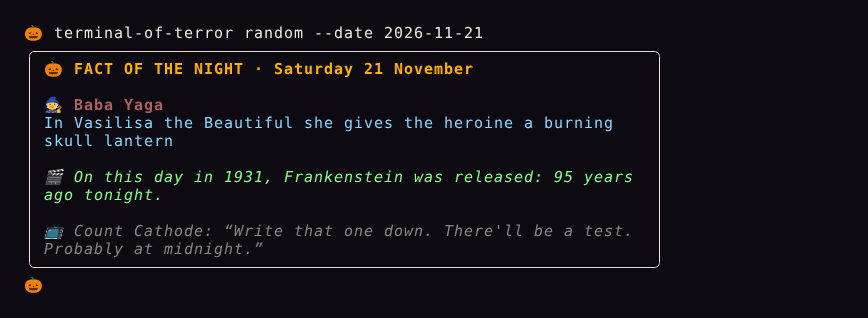
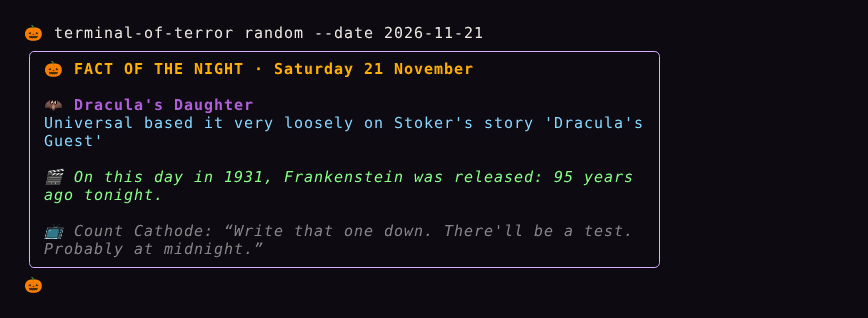
docs: roster, eras and re-recorded demos for 55 monsters
README roster tables for the Classical Mythology and Silent Screen
packs; mythology eras trimmed so first appearances don't repeat the
work's name; every demo re-recorded with docs/demos/render.sh (the
list frame is taller again, the quiz tape presses 1, 2, 4 for seed 13)
and the alt texts updated to match.

Claude-Session: https://claude.ai/code/session_012JtbXb8ej9wYY4xGBzaTku

Changed region(s): [[0.0311, 0.3113, 0.7465, 0.4811], [0.0311, 0.8208, 0.7465, 0.8491], [0.0622, 0.1415, 0.7465, 0.1698]]

diff --git a/site/templates/home.html b/site/templates/home.html
@@ -131,7 +131,7 @@ terminal-of-terror monster --no-intro  <span class="c"># skip the static</span><
   <h2><span class="h-emoji">🧠</span> Games</h2>
   <div class="games">
     <article class="game">
-      <img src="{{$root}}assets/quiz.gif" alt="The Midnight Quiz: a question about where the Kappa first appeared, a wrong answer with its explanation, and a final rank" loading="lazy">
+      <img src="{{$root}}assets/quiz.gif" alt="The Midnight Quiz: a true-or-false question, a wrong answer with its explanation, and a final rank" loading="lazy">
       <h3>The Midnight Quiz</h3>
       <p>Questions built from the monster data: facts, film credits, lines from the novels and myth checks. Every answer explains itself, so you learn as you play. Finish with a rank from <strong>Ghoul-in-Training</strong> to <strong>Master of Horror</strong>.</p>
       <pre class="term" data-copy><code>terminal-of-terror quiz
@@ -139,7 +139,7 @@ terminal-of-terror quiz -n 5
 terminal-of-terror quiz dracula</code></pre>
     </article>
     <article class="game">
-      <img src="{{$root}}assets/guess.gif" alt="Guess the Monster: the Sasquatch's portrait slowly clears from the fog as clues appear" loading="lazy">
+      <img src="{{$root}}assets/guess.gif" alt="Guess the Monster: the Yeti's portrait slowly clears from the fog as clues appear" loading="lazy">
       <h3>Guess the Monster</h3>
       <p>A portrait is hidden in the fog. Press <kbd>space</kbd> to clear a little more (clues appear as it lifts), but every clearing costs points. Name the monster through the thickest fog for the <strong>Eagle Eye</strong> badge.</p>
       <pre class="term" data-copy><code>terminal-of-terror guess
@@ -197,7 +197,7 @@ terminal-of-terror tonight --date 2026-10-31</code></pre>
       <pre class="term" data-copy><code>terminal-of-terror random --daily
 terminal-of-terror random --date 2026-11-21
 terminal-of-terror random</code></pre>
-      <img class="shot" src="{{$root}}assets/random.png" alt="The Fact of the Night card for 21 November: a Baba Yaga fact, and a note that Frankenstein opened 95 years ago tonight" loading="lazy">
+      <img class="shot" src="{{$root}}assets/random.png" alt="The Fact of the Night card for 21 November: a Dracula's Daughter fact, and a note that Frankenstein opened 95 years ago tonight" loading="lazy">
     </article>
   </div>
 </section>

diff --git a/README.md b/README.md
@@ -148,14 +148,14 @@ terminal-of-terror quiz dracula
 </td>
 <td width="50%" valign="top">
 
-<img src="docs/assets/quiz.gif" alt="The Midnight Quiz: a question about where the Kappa first appeared, a wrong answer with its explanation, and a final rank" width="100%">
+<img src="docs/assets/quiz.gif" alt="The Midnight Quiz: a true-or-false question, a wrong answer with its explanation, and a final rank" width="100%">
 
 </td>
 </tr>
 <tr>
 <td width="50%" valign="top">
 
-<img src="docs/assets/guess.gif" alt="Guess the Monster: the Sasquatch's portrait slowly clears from the fog as clues appear" width="100%">
+<img src="docs/assets/guess.gif" alt="Guess the Monster: the Yeti's portrait slowly clears from the fog as clues appear" width="100%">
 
 </td>
 <td width="50%" valign="top">
@@ -264,7 +264,7 @@ terminal-of-terror random --date 2026-11-21
 terminal-of-terror random                     # or just any old fact
 ```
 
-<img src="docs/assets/random.png" alt="The Fact of the Night card for 21 November: a Baba Yaga fact, and a note that Frankenstein opened 95 years ago tonight" width="620">
+<img src="docs/assets/random.png" alt="The Fact of the Night card for 21 November: a Dracula's Daughter fact, and a note that Frankenstein opened 95 years ago tonight" width="620">
 
 ## 📜 The roster
 
@@ -330,6 +330,28 @@ terminal-of-terror random                     # or just any old fact
 | 🎃 | **The Headless Horseman** | Washington Irving's story (1820) | *The Headless Horseman* (1922), a silent with Will Rogers as Ichabod |
 | 🦴 | **Grendel** | *Beowulf*, the Old English poem | |
 | 🐲 | **The Jabberwock** | Lewis Carroll's *Jabberwocky* (1871) | |
+
+### Classical Mythology · `--pack mythology`
+
+| | Monster | Where the myth is told |
+|-|---------|------------------------|
+| 🐍 | **Medusa** | Hesiod's *Theogony* (around 700 BCE), retold by Ovid |
+| 🐂 | **The Minotaur** | Greek vase painting, then Apollodorus, Plutarch and Ovid |
+| 🐕 | **Cerberus** | Hesiod's *Theogony*; the last labour of Heracles |
+| 🐉 | **The Hydra** | Hesiod's *Theogony*; the labour told in full by Apollodorus |
+| 🧿 | **Polyphemus the Cyclops** | Homer's *Odyssey*, book 9 |
+| 🦁 | **The Sphinx** | Named by Hesiod; her riddle in Sophocles' *Oedipus Rex* |
+
+### Silent Screen · `--pack silent`
+
+| | Monster | The film | Played by |
+|-|---------|----------|-----------|
+| 🐀 | **Count Orlok** | *Nosferatu* (1922) | Max Schreck |
+| 🛌 | **Cesare the Somnambulist** | *Das Cabinet des Dr. Caligari* (1920) | Conrad Veidt |
+| ⚡ | **The Edison Monster** | *Frankenstein* (1910) | Charles Ogle |
+| 🤖 | **The Maschinenmensch** | *Metropolis* (1927) | Brigitte Helm |
+| 🃏 | **Gwynplaine** | *The Man Who Laughs* (1928) | Conrad Veidt |
+| 🎩 | **The Man in the Beaver Hat** | *London After Midnight* (1927), the famous lost film | Lon Chaney |
 
 <img src="docs/assets/list.png" alt="terminal-of-terror list: every monster grouped by pack" width="820">
 
